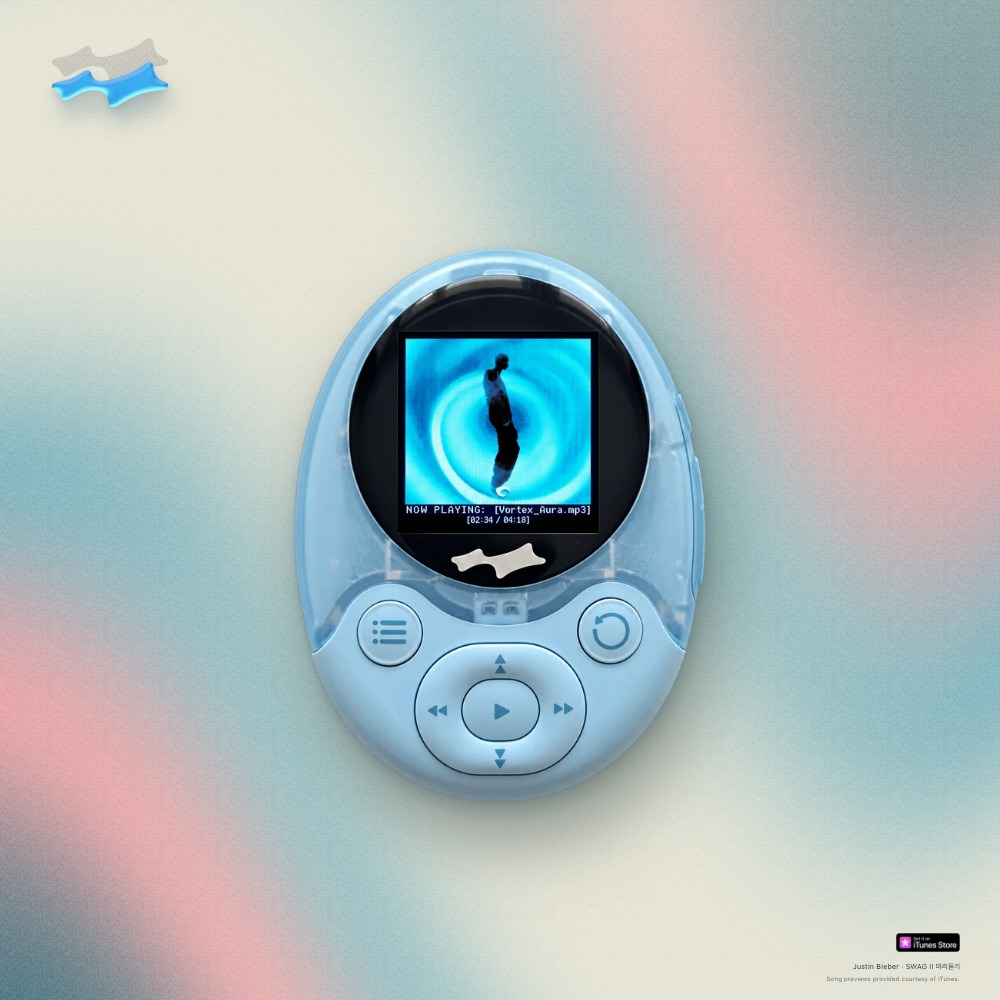
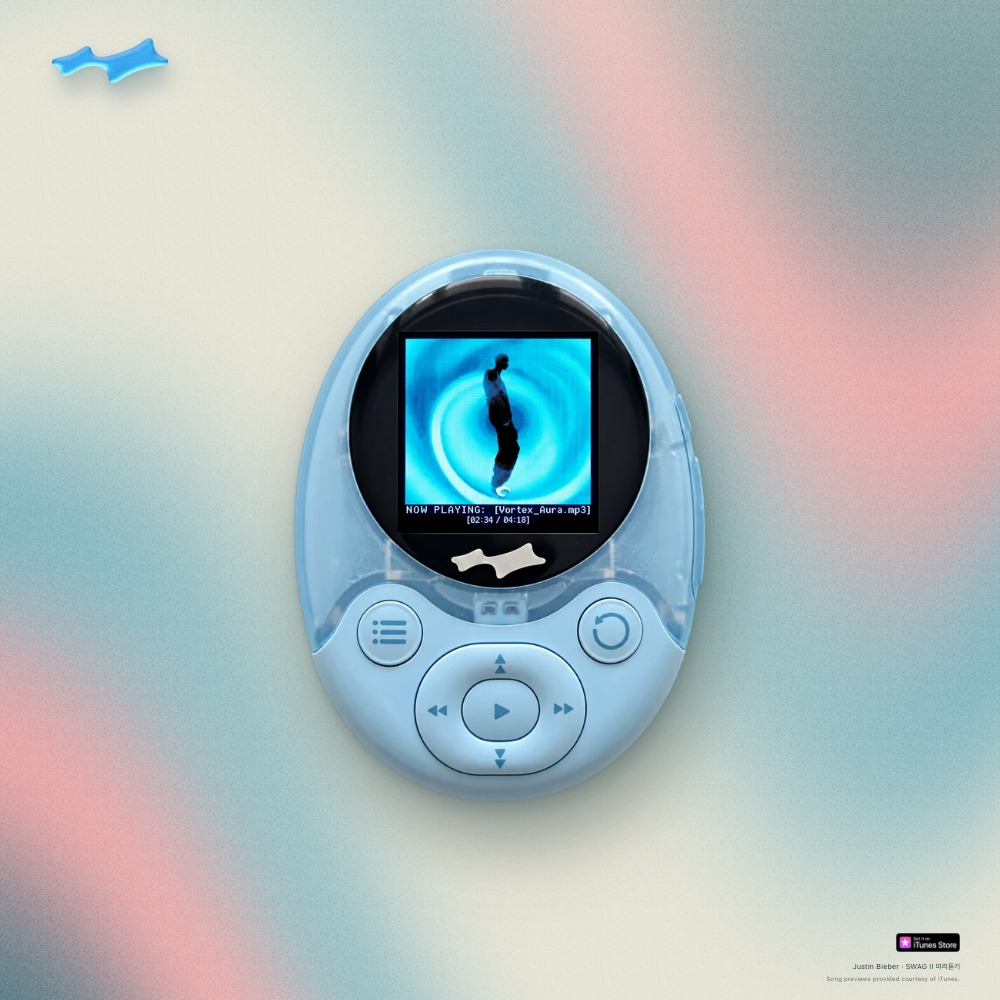
Restore original SKYLRK card symbol position

diff --git a/src/projects.ts b/src/projects.ts
@@ -22,7 +22,7 @@ export const profile = {
 
 // 배열 순서대로 카드가 표시되며, 마지막 카드가 01입니다.
 export const projects: Project[] = [
-  { id: 'moodroom', title: 'SKYLRK', category: 'Interactive Website', year: '2026', theme: 'moodroom', description: 'SKYLRK 에서 출시 예정인 뮤직 플레이어를 미리 상상해보면서 구성한 인터랙티브 웹사이트 개인작업입니다. Justin Bieber의 SWAG II 앨범을 재생할 수 있으며 음악의 분위기가 백그라운드의 색으로 번지도록 했습니다.\n플레이어의 버튼으로 곡 목록을 열거나 이전·다음 곡을 선택하고, 미리듣기를 재생할 수 있습니다.', role: 'Planning · Development · Graphic Design', url: 'https://wanseo.github.io/swag2/', image: 'images/moodroom-preview.jpg?v=2' },
+  { id: 'moodroom', title: 'SKYLRK', category: 'Interactive Website', year: '2026', theme: 'moodroom', description: 'SKYLRK 에서 출시 예정인 뮤직 플레이어를 미리 상상해보면서 구성한 인터랙티브 웹사이트 개인작업입니다. Justin Bieber의 SWAG II 앨범을 재생할 수 있으며 음악의 분위기가 백그라운드의 색으로 번지도록 했습니다.\n플레이어의 버튼으로 곡 목록을 열거나 이전·다음 곡을 선택하고, 미리듣기를 재생할 수 있습니다.', role: 'Planning · Development · Graphic Design', url: 'https://wanseo.github.io/swag2/', image: 'images/moodroom-preview.jpg?v=3' },
   { id: 'potential', title: 'POTENTIAL', category: 'Website Development · Graphic Design', year: '2026', theme: 'potential', description: '브랜드 POTENTIAL의 제품을 판매하는 웹사이트입니다. 제품 카테고리 · 상세 페이지 · 브랜드 소개와 아카이브를 탐색할 수 있도록 구성했습니다. 기획, 개발 및 디자인을 진행하고 있습니다. (제작 중)', role: 'Planning · Development · Graphic Design', url: 'https://wanseo.github.io/potential/', image: 'images/potential-preview.jpg' },
   { id: 'glyfing', title: 'GLYF', category: 'Interactive Website Development · Graphic Design', year: '2026', theme: 'glyfing', description: '화장품 브랜드 GLYF 의 바이럴 콘텐츠로 활용될 인터렉티브 웹사이트를 기획하고 개발 및 디자인을 진행했습니다. 브랜드 이미지에 맞게 핑크 글리터 배경과 컨셉에 맞는 에셋들을 활용하여 웹사이트를 구성하였습니다. 방향키로 캐릭터를 움직일 수 있고, 화면을 구성하는 에셋을 누르면 게임 및 촬영 페이지로 연결됩니다. (제작 중)', role: 'Planning · Development · Graphic Design', url: 'https://wanseo.github.io/glyfing/', image: 'images/glyfing-preview.jpg' },
   { id: 'guestbook', title: 'Guestbook', category: 'Interactive Website Development · Graphic Design', year: '2026', theme: 'form', description: '픽셀 그래픽과 움직이는 배경으로 만든 작은 방명록입니다. 방문자들은 자신의 이름과 함께 방명록을 남길 수 있습니다. 말랑이 캐릭터는 랜덤으로 배정됩니다. 픽셀 형태의 말랑이, 말풍선, 배경, 입력창 등 웹사이트를 구성하는 모든 에셋을 디자인했습니다.', role: 'Planning · Development · Graphic Design', url: 'https://wanseo.github.io/myfirstweb/', video: 'videos/guestbook.mp4?v=2', poster: 'videos/guestbook.jpg?v=2' },
